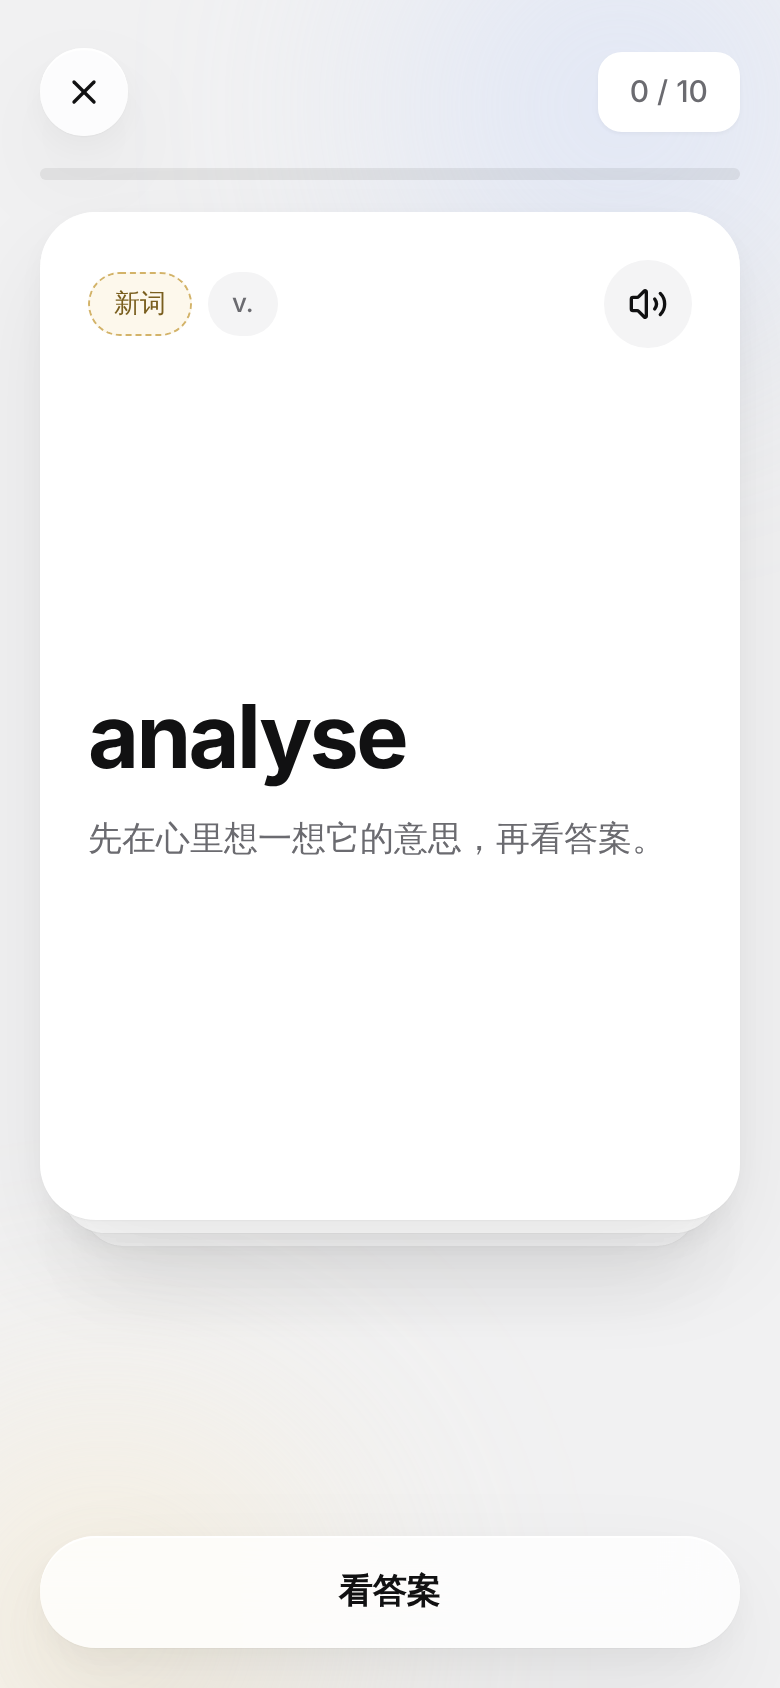
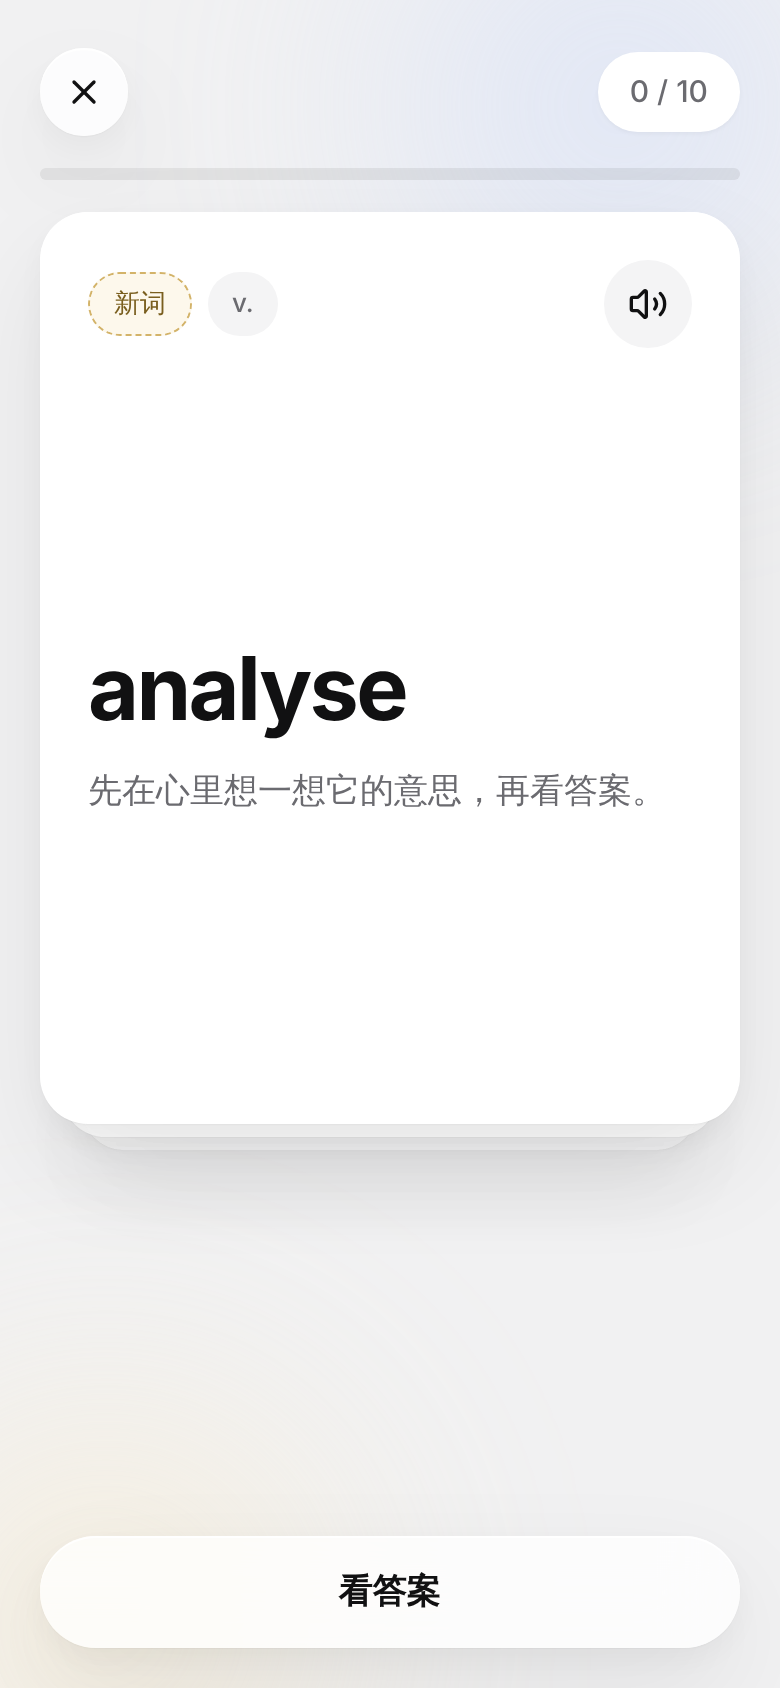
Rebuild the vocabulary home screen on Astryx components and theme
Map the values read from the reference into an Astryx theme and follow
its layout rules: one card for the one independent object, weaker
containers for page sections, type capped at display-1. Recipes remain
only for effects Astryx lacks (ground, deck, week dots).

gate-app now builds the theme first and ignores sub-2px screen-reader
proxies when measuring touch targets.

Claude-Session: https://claude.ai/code/session_015qE4q18Kjn7qFCdSSsLhYp

diff --git a/ui-workflow/runs/pte-vocab/app/screens/Home.tsx b/ui-workflow/runs/pte-vocab/app/screens/Home.tsx
@@ -1,5 +1,18 @@
-import {ArrowRight, BookOpen} from 'lucide-react';
-import {Big, Btn, Chip, Chips, Deck, IconBtn, Label, Meter, P, Row, Screen, SoftCard, Stack, TwoToneTitle, WeekDots} from '../../../../recipes';
+// 首页：按 Astryx 的版式规则搭——一屏一个主角，其余用“最弱的容器”（标题 + 留白 + 分隔线），不摞卡片。
+import {BookOpen} from 'lucide-react';
+import {Button} from '@astryxdesign/core/Button';
+import {Card} from '@astryxdesign/core/Card';
+import {ClickableCard} from '@astryxdesign/core/ClickableCard';
+import {Divider} from '@astryxdesign/core/Divider';
+import {Heading} from '@astryxdesign/core/Heading';
+import {HStack} from '@astryxdesign/core/HStack';
+import {Icon} from '@astryxdesign/core/Icon';
+import {IconButton} from '@astryxdesign/core/IconButton';
+import {ProgressBar} from '@astryxdesign/core/ProgressBar';
+import {Text} from '@astryxdesign/core/Text';
+import {Token} from '@astryxdesign/core/Token';
+import {VStack} from '@astryxdesign/core/VStack';
+import {Deck, Screen, WeekDots} from '../../../../recipes';
 import {WORDS} from '../data/words';
 import {addBonus, addDays, dueOn, dueReviews, learnedCount, masteredCount, newWords, streak, today, unseenCount, week} from '../logic/srs';
 import type {State} from '../logic/srs';
@@ -25,78 +38,82 @@ export function Home({state, update, onStart, onWords}: {state: State; update: (
       screen="home"
       dock={
         todo > 0 ? (
-          <Btn onPress={onStart}>
-            开始学习 <ArrowRight size={20} aria-hidden />
-          </Btn>
+          <Button label="开始学习" variant="primary" size="lg" width="100%" elevation="med" onClick={onStart} />
         ) : unseen > 0 ? (
-          <Btn kind="soft" onPress={learnMore}>
-            再学 10 个
-          </Btn>
+          <Button label="再学 10 个" variant="secondary" size="lg" width="100%" elevation="low" onClick={learnMore} />
         ) : undefined
       }>
-      {/* region: title */}
-      <TwoToneTitle
-        eyebrow="PTE 学术词汇"
-        title="今天"
-        end={
-          <IconBtn label="词表" onPress={onWords}>
-            <BookOpen size={20} aria-hidden />
-          </IconBtn>
-        }
-      />
+      <VStack gap={8}>
+        {/* region: title —— 两行同字号，靠颜色分主次 */}
+        <HStack hAlign="between" vAlign="start">
+          <VStack gap={0}>
+            <Text size="2xl" weight="medium" color="secondary">
+              PTE 学术词汇
+            </Text>
+            <Heading level={1}>今天</Heading>
+          </VStack>
+          <IconButton label="词表" icon={<Icon icon={BookOpen} />} variant="ghost" size="lg" onClick={onWords} />
+        </HStack>
 
-      {/* region: today-task */}
-      {todo > 0 ? (
-        <Deck depth={todo > 2 ? 2 : todo - 1} cardKey="task">
-          <SoftCard onPress={onStart} label={`今日任务，${todo} 个词，开始学习`}>
-            <Label>今日任务</Label>
-            <Big value={todo} unit="个词" />
-            <Chips>
-              {reviews > 0 ? (
-                <Chip kind="dashed" hue="blue">
-                  复习 {reviews}
-                </Chip>
-              ) : null}
-              {fresh > 0 ? (
-                <Chip kind="dashed" hue="amber">
-                  新词 {fresh}
-                </Chip>
-              ) : null}
-            </Chips>
-          </SoftCard>
-        </Deck>
-      ) : (
-        <SoftCard>
-          <Label>今日任务</Label>
-          <Big size="title" value={allDone ? '全部学完' : '今天学完了'} />
-          <P tone="2">{tomorrow > 0 ? `明天有 ${tomorrow} 个词等你复习。` : unseen > 0 ? '想多学一点，可以再加 10 个新词。' : '接下来按复习日期回来就好。'}</P>
-        </SoftCard>
-      )}
+        {/* region: today-task —— 这一屏唯一的卡片：一个可以独立拿走的东西，点它就开始 */}
+        {todo > 0 ? (
+          <Deck depth={todo > 2 ? 2 : todo - 1} cardKey="task">
+            <ClickableCard label={`今日任务，${todo} 个词，开始学习`} elevation="low" padding={6} onClick={onStart}>
+              <VStack gap={4}>
+                <Text type="label" color="secondary">
+                  今日任务
+                </Text>
+                <HStack gap={2} vAlign="end">
+                  <Text type="display-1" weight="semibold" hasTabularNumbers>
+                    {todo}
+                  </Text>
+                  <Text color="secondary">个词</Text>
+                </HStack>
+                <HStack gap={2}>
+                  {reviews > 0 ? <Token label={`复习 ${reviews}`} color="blue" /> : null}
+                  {fresh > 0 ? <Token label={`新词 ${fresh}`} color="yellow" /> : null}
+                </HStack>
+              </VStack>
+            </ClickableCard>
+          </Deck>
+        ) : (
+          <Card elevation="low" padding={6}>
+            <VStack gap={2}>
+              <Text type="label" color="secondary">
+                今日任务
+              </Text>
+              <Heading level={2}>{allDone ? '全部学完' : '今天学完了'}</Heading>
+              <Text color="secondary">{tomorrow > 0 ? `明天有 ${tomorrow} 个词等你复习。` : unseen > 0 ? '想多学一点，可以再加 10 个新词。' : '接下来按复习日期回来就好。'}</Text>
+            </VStack>
+          </Card>
+        )}
 
-      {/* region: streak */}
-      <SoftCard>
-        <Row>
-          <Label>本周打卡</Label>
-          <Chip kind={days > 0 ? 'tint' : 'soft'} hue="amber">
-            连续 {days} 天
-          </Chip>
-        </Row>
-        <WeekDots days={week(state, day)} />
-      </SoftCard>
+        {/* region: streak —— 页面的一个区，不是独立对象：不用卡片 */}
+        <VStack gap={4}>
+          <HStack hAlign="between" vAlign="center">
+            <Heading level={3}>本周打卡</Heading>
+            <Text color="secondary">连续 {days} 天</Text>
+          </HStack>
+          <WeekDots days={week(state, day)} />
+        </VStack>
 
-      {/* region: progress */}
-      <SoftCard>
-        <Row>
-          <Label>累计进度</Label>
-          <P tone="2" size="sm">
-            已掌握 {masteredCount(state)}
-          </P>
-        </Row>
-        <Stack gap={3}>
-          <Big value={learned} unit={`/ ${WORDS.length} 词`} />
-          <Meter value={learned} max={WORDS.length} label="已学词数" />
-        </Stack>
-      </SoftCard>
+        <Divider />
+
+        {/* region: progress */}
+        <VStack gap={4}>
+          <HStack hAlign="between" vAlign="center">
+            <Heading level={3}>累计进度</Heading>
+            <Text color="secondary">已掌握 {masteredCount(state)}</Text>
+          </HStack>
+          <VStack gap={2}>
+            <HStack gap={1} vAlign="end">
+              <Text weight="semibold">{learned}</Text>
+              <Text color="secondary">/ {WORDS.length} 词</Text>
+            </HStack>
+            <ProgressBar label="已学词数" isLabelHidden value={learned} max={WORDS.length} />
+          </VStack>
+        </VStack>
+      </VStack>
     </Screen>
   );
 }

diff --git a/ui-workflow/runs/pte-vocab/theme/theme.ts b/ui-workflow/runs/pte-vocab/theme/theme.ts
@@ -1,0 +1,35 @@
+// 把从 ABY Journal 高清图里读出的数值，映射进 Astryx 的主题。
+// 规范（字阶、间距刻度、圆角层级、阴影层级）全部是 Astryx 自己的，这里只填数。
+import {defineTheme} from '@astryxdesign/core/theme';
+
+export const theme = defineTheme({
+  name: 'app',
+  typography: {
+    // 手机正文 17；比例 1.2 → 标题 1 ≈ 29，展示字 1 ≈ 51（组件库规定的最大字）
+    scale: {base: 17, ratio: 1.2},
+    body: {family: 'system-ui', fallbacks: '-apple-system, "PingFang SC", "Noto Sans SC", sans-serif'},
+    heading: {weight: 'semibold'},
+  },
+  radius: {base: 8, multiplier: 1},
+  tokens: {
+    '--color-background-body': ['#F1F1F2', '#F1F1F2'],
+    '--color-background-surface': ['#F1F1F2', '#F1F1F2'],
+    '--color-background-card': ['#FFFFFF', '#FFFFFF'],
+    '--color-background-muted': ['#E9E9EB', '#E9E9EB'],
+    '--color-text-primary': ['#111112', '#111112'],
+    '--color-text-secondary': ['#6B6B70', '#6B6B70'],
+    '--color-accent': ['#111112', '#111112'],
+    '--color-on-accent': ['#FFFFFF', '#FFFFFF'],
+    // 阴影层级沿用 Astryx 的 low / med / high，只把形状换成参考图里那种又淡又散的
+    '--shadow-low': '0 0.5px 1px rgba(17,17,18,0.04), 0 6px 18px rgba(17,17,18,0.045), 0 22px 56px rgba(17,17,18,0.07)',
+    '--shadow-med': '0 1px 2px rgba(17,17,18,0.05), 0 12px 32px rgba(17,17,18,0.1), 0 32px 72px rgba(17,17,18,0.1)',
+  },
+  components: {
+    // 卡片：无描边，靠阴影浮起；圆角就是组件库的“容器”那一档（基数 8 时为 24）
+    card: {base: {borderStyle: 'none'}},
+    // 按钮：胶囊；触控高度
+    button: {base: {borderRadius: 'var(--radius-full)', minHeight: 'var(--spacing-11)'}, 'size:lg': {minHeight: 'calc(var(--spacing-7) * 2)', fontWeight: 'var(--font-weight-semibold)'}},
+    // 标签：虚线描边的浅色胶囊
+    token: {base: {borderRadius: 'var(--radius-full)', borderStyle: 'dashed', borderWidth: '1.5px', borderColor: 'color-mix(in srgb, currentColor 40%, transparent)'}},
+  },
+});

diff --git a/ui-workflow/runs/pte-vocab/app/App.tsx b/ui-workflow/runs/pte-vocab/app/App.tsx
@@ -1,4 +1,9 @@
 import {useState} from 'react';
+import {Theme} from '@astryxdesign/core/theme';
+import '@astryxdesign/core/reset.css';
+import '@astryxdesign/core/astryx.css';
+import {appTheme} from '../theme/app';
+import '../theme/app.css';
 import {useStore} from './logic/store';
 import {Home} from './screens/Home';
 import {Study} from './screens/Study';
@@ -9,6 +14,14 @@ import {Words} from './screens/Words';
 type Route = {name: 'home'} | {name: 'study'} | {name: 'summary'; result: SessionResult} | {name: 'words'};
 
 export function App() {
+  return (
+    <Theme theme={appTheme} mode="light">
+      <Routes />
+    </Theme>
+  );
+}
+
+function Routes() {
   const {state, update} = useStore();
   const [route, setRoute] = useState<Route>({name: 'home'});
   const home = () => setRoute({name: 'home'});

diff --git a/ui-workflow/recipes/recipes.css b/ui-workflow/recipes/recipes.css
@@ -34,7 +34,7 @@
   --rx-gap-inner: var(--spacing-4); /* 卡片里的块与块 16 */
   --rx-gap-card: var(--spacing-4); /* 卡片与卡片 16 */
   --rx-gap-section: var(--spacing-8); /* 标题与内容、区与区 32 */
-  --rx-radius-card: var(--radius-page); /* 28 */
+  --rx-radius-card: var(--radius-container); /* 跟随主题的“容器”圆角 */
   --rx-radius-inner: var(--radius-container); /* 12 */
   --rx-radius-pill: var(--radius-full);
   /* 控件高度：三档 */

diff --git a/ui-workflow/shell/mobile-base.ts b/ui-workflow/shell/mobile-base.ts
@@ -3,5 +3,4 @@
 export const mobileBase = {
   tab: {base: {minHeight: '44px'}},
   button: {base: {minHeight: '44px'}},
-  'icon-button': {base: {minHeight: '44px', minWidth: '44px'}},
 } as const;
